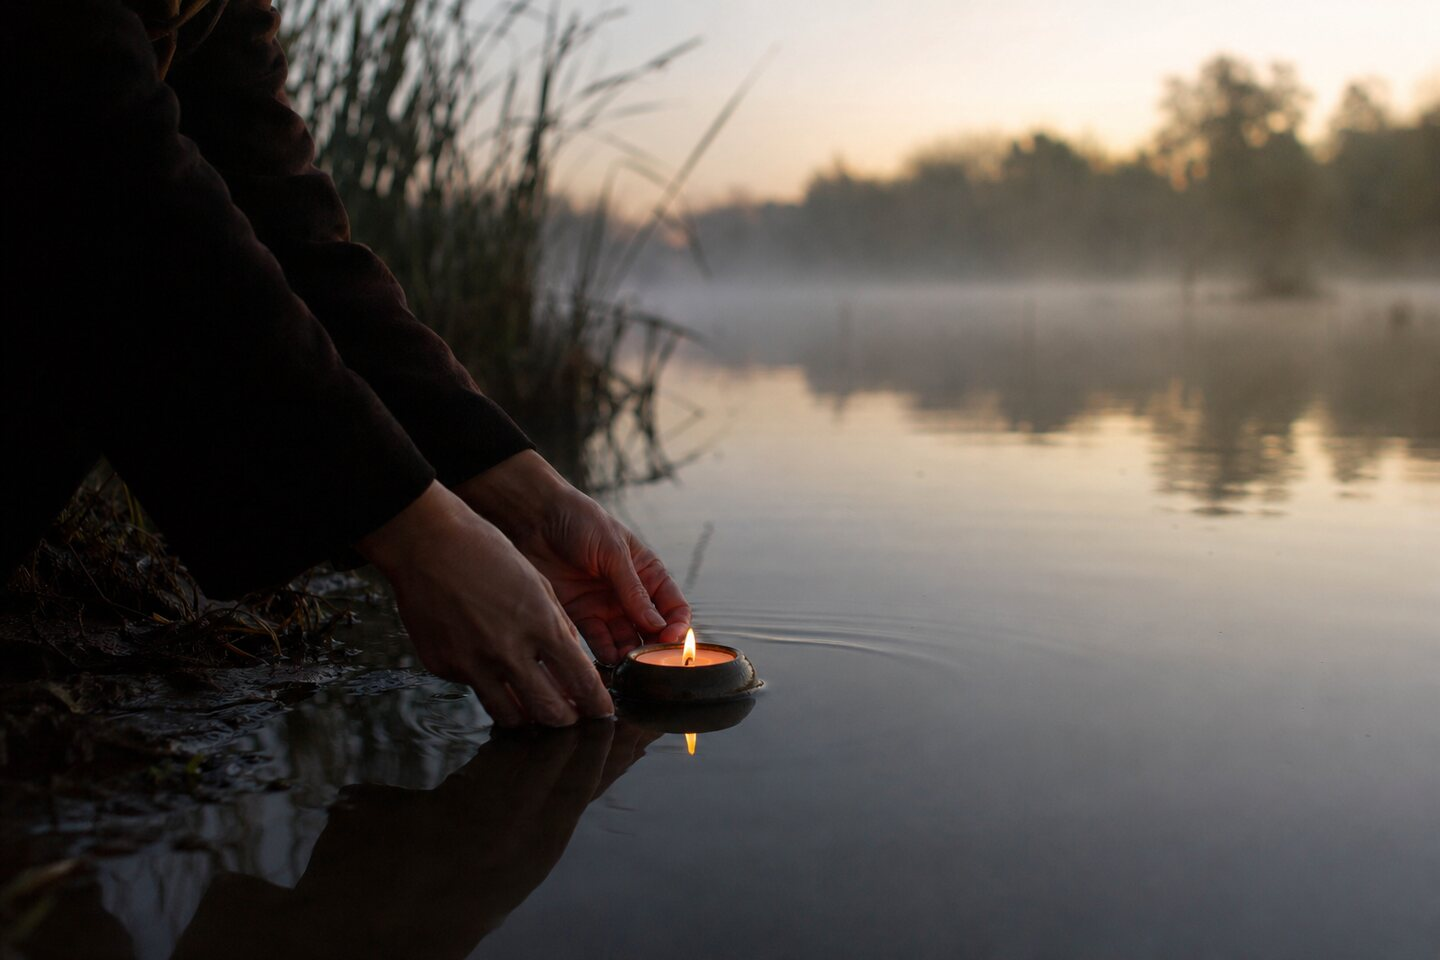
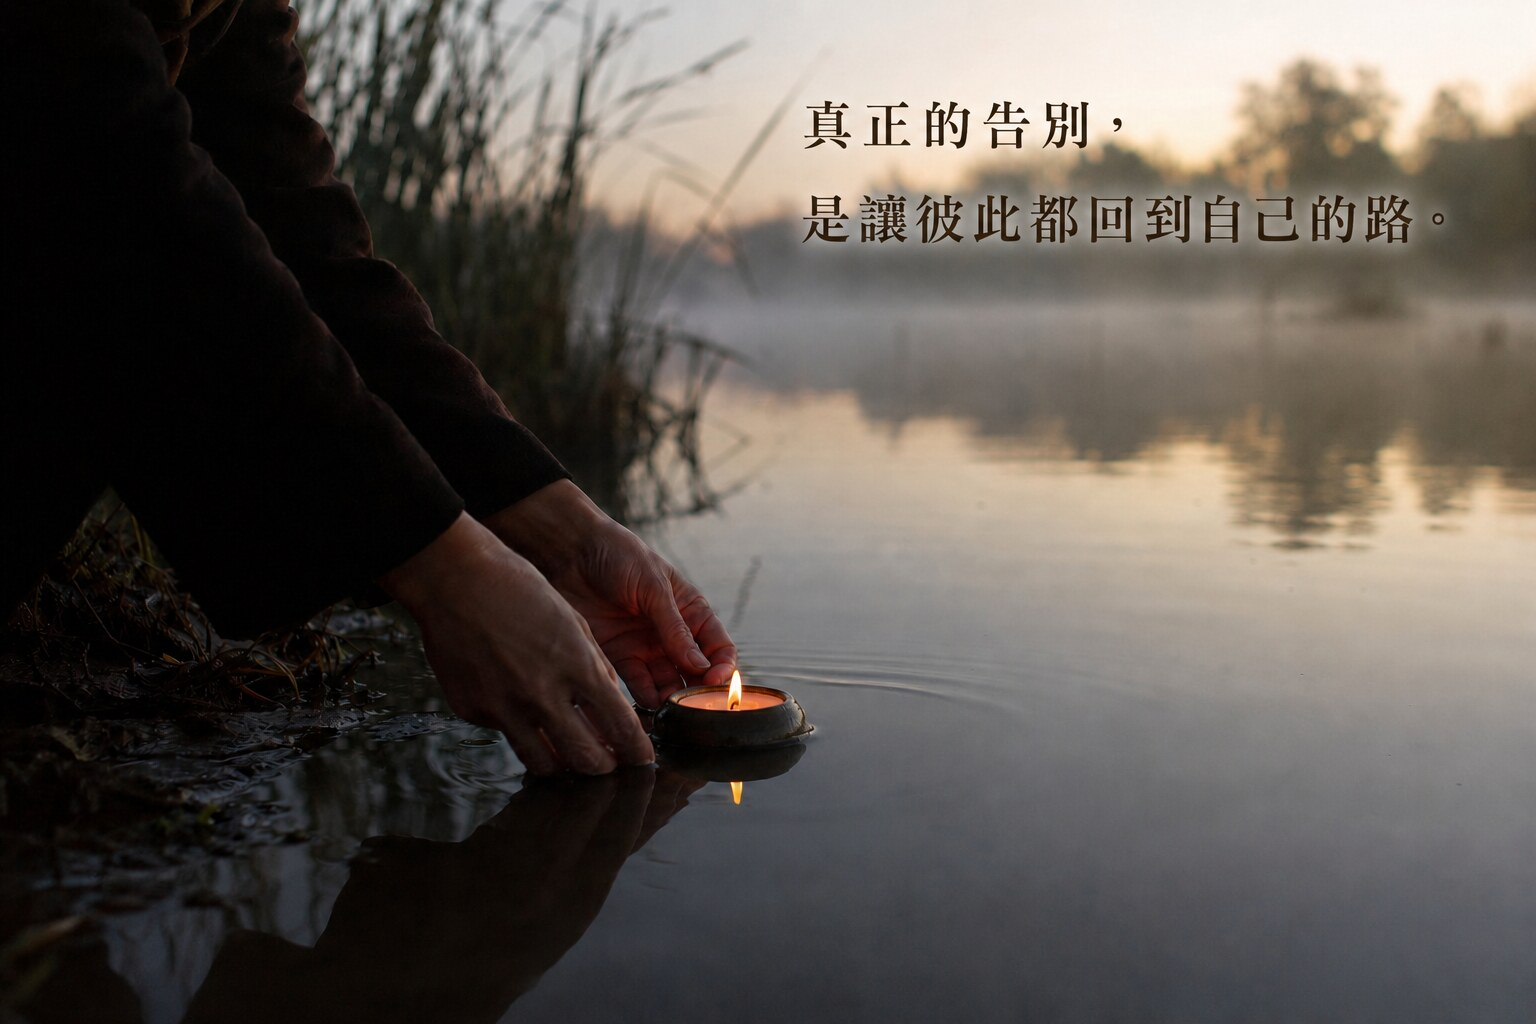
為文章三張情境圖加入文案

Changed region(s): [[0.5, 0.0938, 0.9375, 0.25], [0.4688, 0.6562, 0.5, 0.6875]]

diff --git a/article-celebrity-dream-spirit.js b/article-celebrity-dream-spirit.js
@@ -6,7 +6,7 @@ export const celebrityDreamSpiritArticle = {
   status: "published",
   publishedAt: "2026-07-31T10:30:00.000Z",
   updatedAt: "2026-07-31T10:30:00.000Z",
-  coverImage: "assets/articles/celebrity-dream-spirit/collective-projection.jpg",
+  coverImage: "assets/articles/celebrity-dream-spirit/collective-projection.jpg?v=20260731-copy-1",
   excerpt: "當有人宣稱亡者托夢、名人指定自己傳話，我不急著判斷真假，而會先確認五件事：這段接觸，究竟讓活著的人更清明，還是更依賴另一個故事？",
   accessType: "paid",
   bookTitle: "請問鬼怪",
@@ -45,7 +45,7 @@ export const celebrityDreamSpiritArticle = {
 
 我自己也不例外。多年前，一位我曾經接觸過的個案驟逝，我確實在夢裡見過他一次，細節鮮明得讓我一度懷疑自己是不是也被同樣的渴望牽著走。後來我讓那個夢靜置了幾天，才慢慢分辨出——那更接近我對「沒能幫上他」的遺憾，而不是他真的來過。連我自己，都得用這五點回頭檢查自己。這套方法不是拿來審判別人的尺，是拿來提醒自己的鏡子。
 
-![文章情境圖](assets/articles/celebrity-dream-spirit/dream-boundary.jpg)
+![文章情境圖](assets/articles/celebrity-dream-spirit/dream-boundary.jpg?v=20260731-copy-1)
 
 
 ## 意識，是有邊界的
@@ -120,7 +120,7 @@ export const celebrityDreamSpiritArticle = {
 
 塔羅裡的死神牌，常被誤解成死亡本身，其實它談的是同一件事：結束一個階段，放下一段抓不住的執著，好讓下一段旅程能夠開始。牌義裡的骷髏騎士不急不徐，因為死亡從不需要匆忙——真正令人不安的，從來不是結束，而是不肯結束的那個心。一個人如果活著的時候，總是抗拒每一次小小的結束，不肯讓一段關係、一個身分、一種自我形象死去，那麼他遲早會在更大的結束來臨時，發現自己毫無準備。心念清明度，說到底，就是每天練習跟一些小小的死亡和解。
 
-![文章情境圖](assets/articles/celebrity-dream-spirit/clear-mind-farewell.jpg)
+![文章情境圖](assets/articles/celebrity-dream-spirit/clear-mind-farewell.jpg?v=20260731-copy-1)
 
 
 ## 回到活著的人

diff --git a/articles.js b/articles.js
@@ -100,7 +100,7 @@ const articleGuides = {
 };
 
 const articleThumbnailImages = {
-  "celebrity-death-dream-spirit-five-checks": "assets/articles/celebrity-dream-spirit/collective-projection.jpg",
+  "celebrity-death-dream-spirit-five-checks": "assets/articles/celebrity-dream-spirit/collective-projection.jpg?v=20260731-copy-1",
   "japan-temple-faith-and-decline": "assets/articles/thumbnails/japan-temple.jpg",
   "spiritual-practice-cannot-be-outsourced-to-gods": "assets/articles/thumbnails/spiritual-practice.jpg",
   "jitong-leader-discernment": "assets/articles/thumbnails/jitong-leader.jpg",
